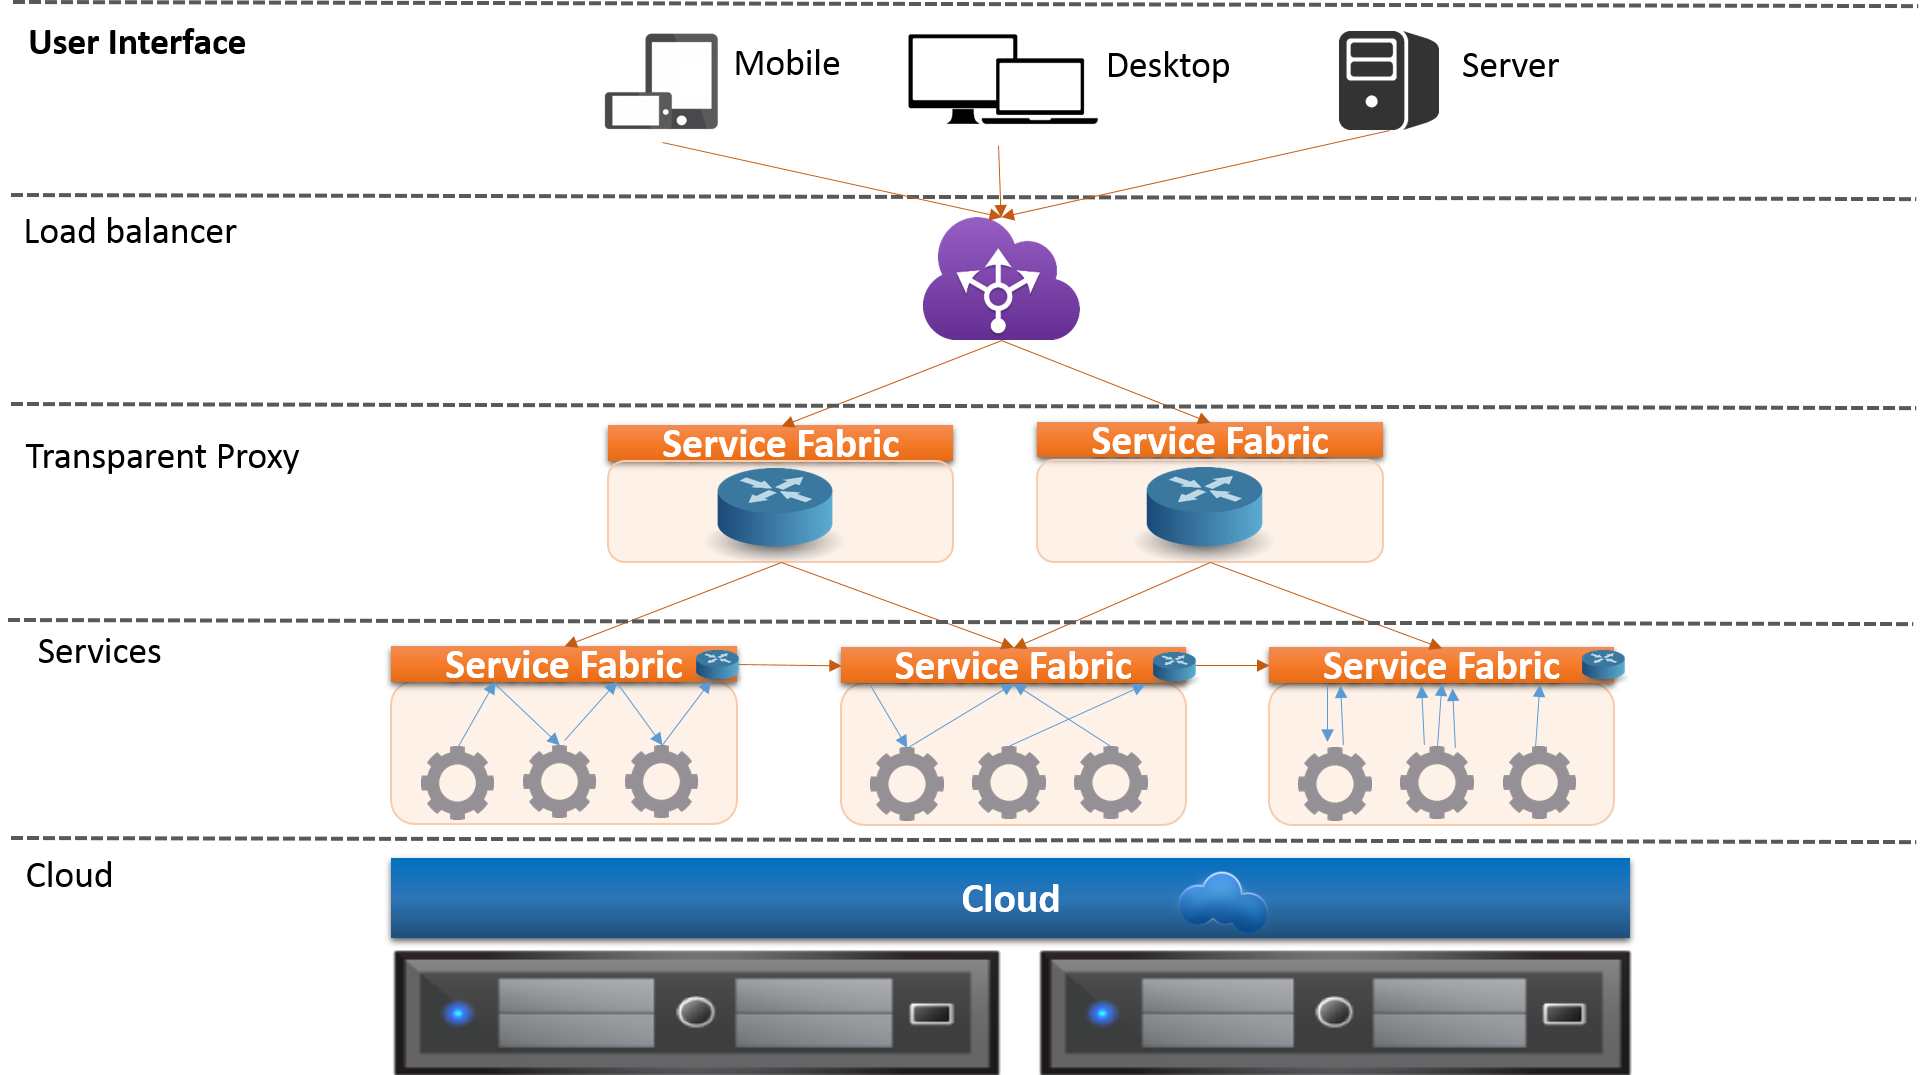
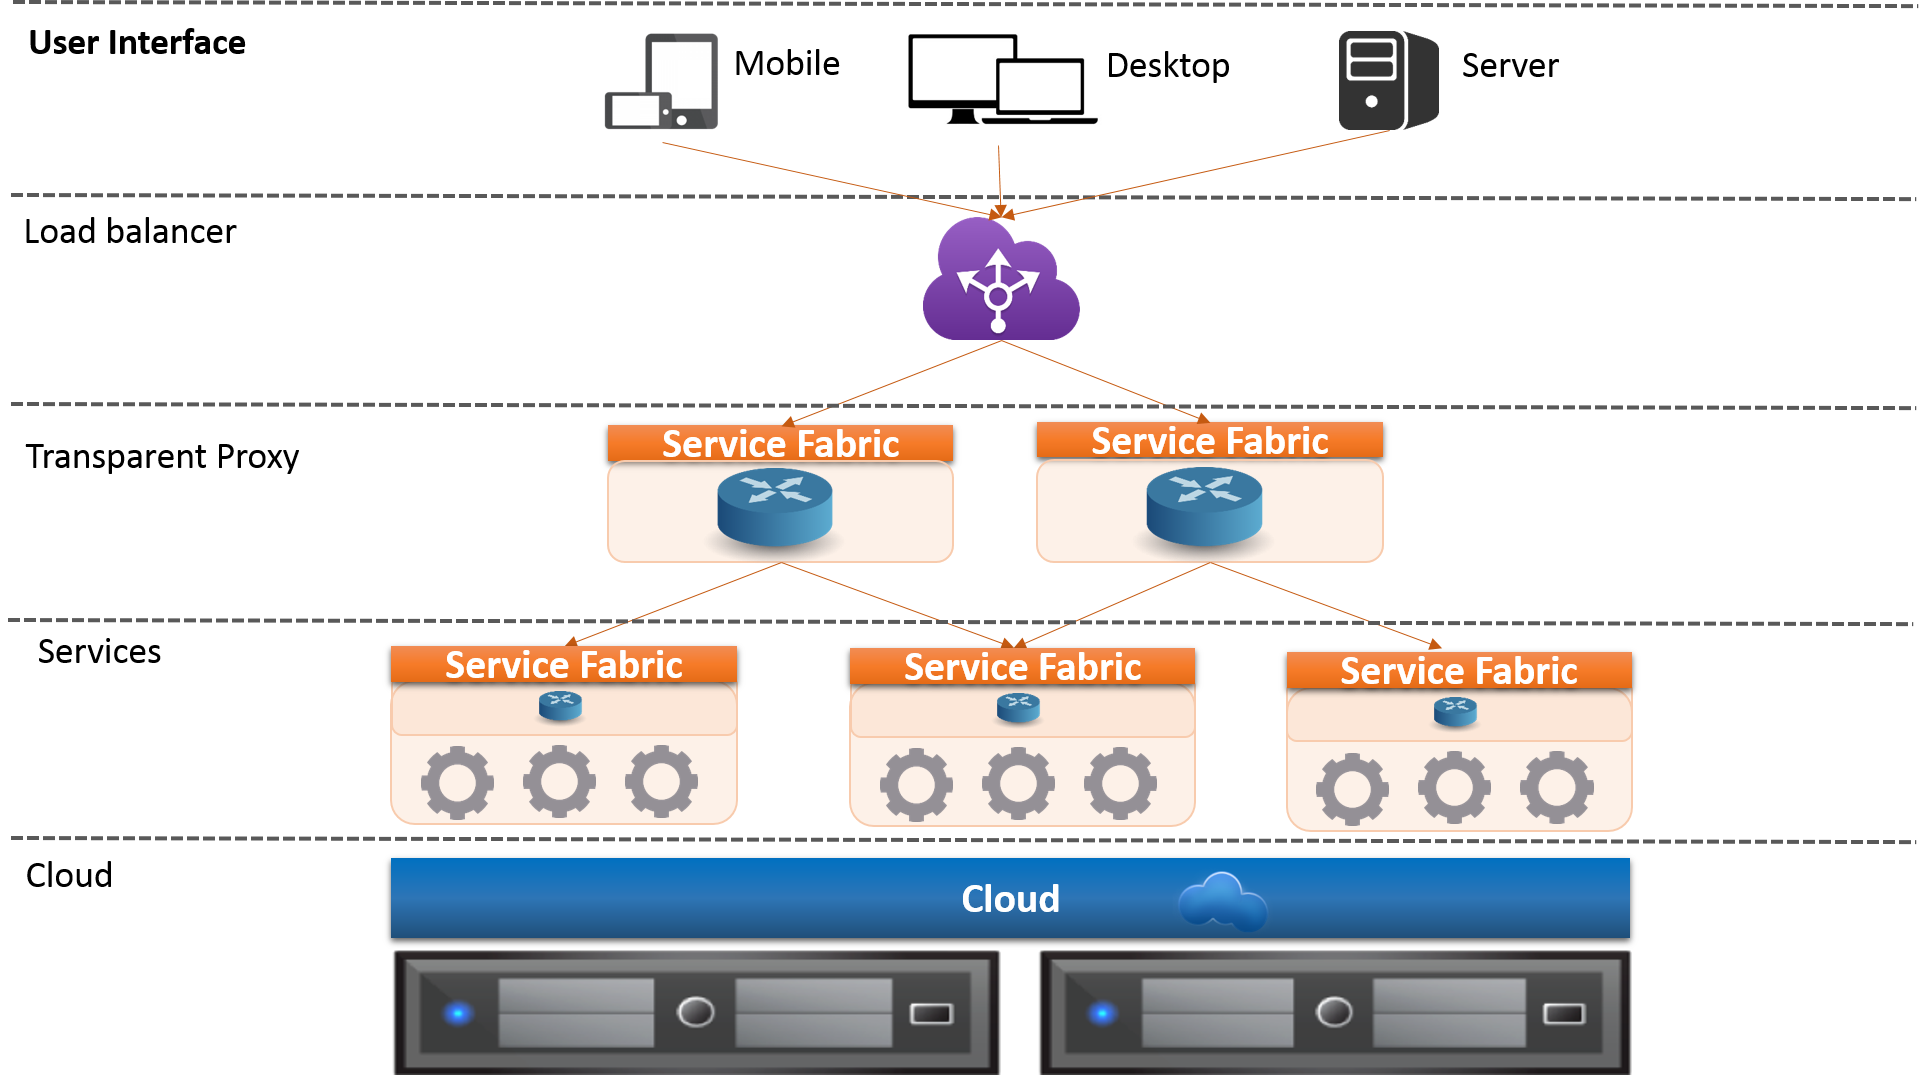
add some desc

Changed region(s): [[0.6559, 0.5833, 0.8745, 0.7674], [0.3436, 0.5833, 0.6247, 0.7674], [0.2811, 0.6447, 0.3123, 0.706]]

diff --git a/index.html b/index.html
@@ -83,9 +83,17 @@ public class GameService implements IGameService {
 <p>If you're using the GitHub for Mac, simply sync your repository and you'll see the new branch.</p>
 
 <h3>
-<a id="designer-templates" class="anchor" href="#designer-templates" aria-hidden="true"><span class="octicon octicon-link"></span></a>Designer Templates</h3>
+<a id="designer-templates" class="anchor" href="#designer-templates" aria-hidden="true"><span class="octicon octicon-link"></span></a>How it works</h3>
 
-<p>We've crafted some handsome templates for you to use. Go ahead and continue to layouts to browse through them. You can easily go back to edit your page before publishing. After publishing your page, you can revisit the page generator and switch to another theme. Your Page content will be preserved if it remained markdown format.</p>
+<p>
+The service fabric node provision the services dynamically to the cluster so when a service request arrives to any service fabric node it is routed to the provisioning node in a transparent manner.
+that means that having service fabric nodes that provision no services makes these nodes transparent proxy and routers to the cluster.
+the nodes that do provision business services will serve the business request as they arrive to them but also may act as transparent proxy.  
+
+</p>
+<IMG SRC="https://raw.githubusercontent.com/servicefabric/servicefabric/gh-pages/img/Picture1.png" ALT="Service Fabric Conceptual" WIDTH=800 HEIGHT=700>
+
+
 
 <h3>
 <a id="rather-drive-stick" class="anchor" href="#rather-drive-stick" aria-hidden="true"><span class="octicon octicon-link"></span></a>Rather Drive Stick?</h3>
